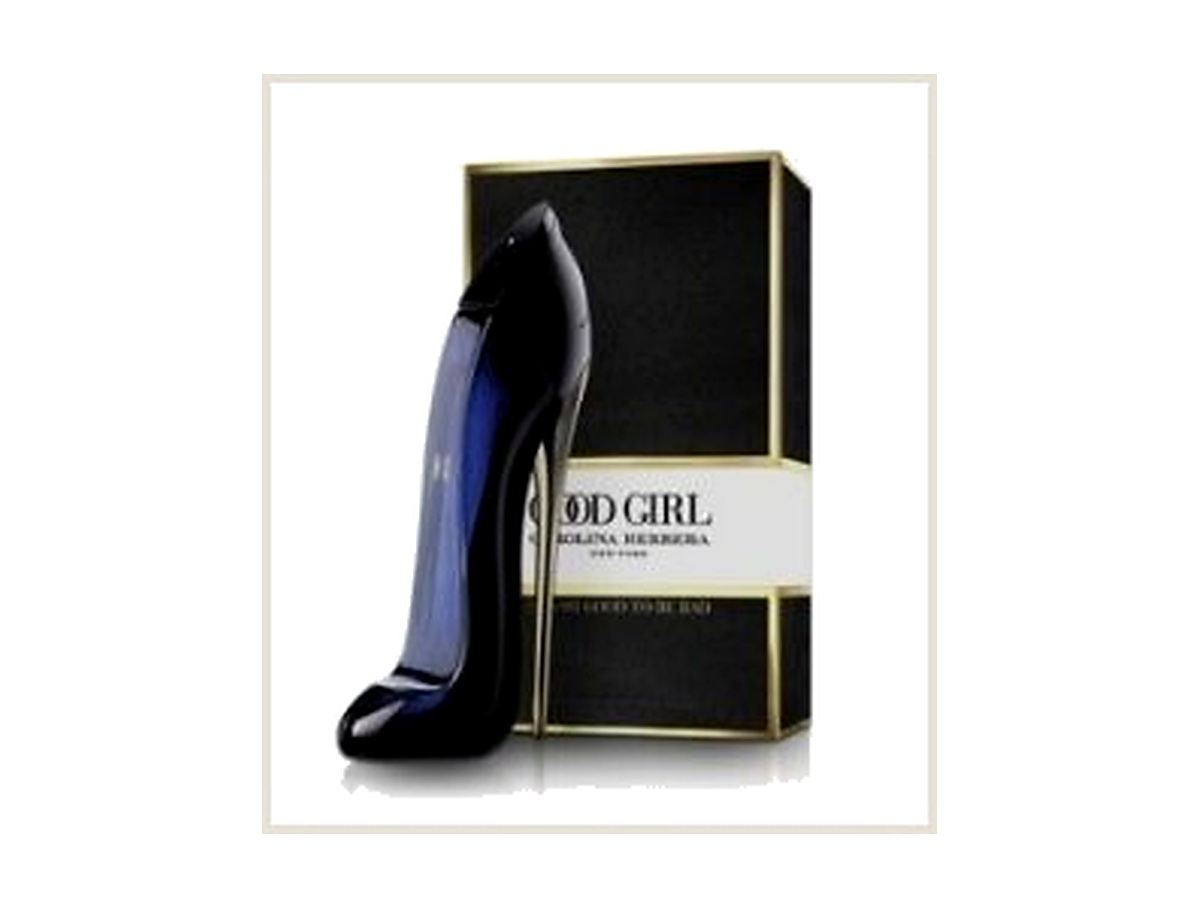
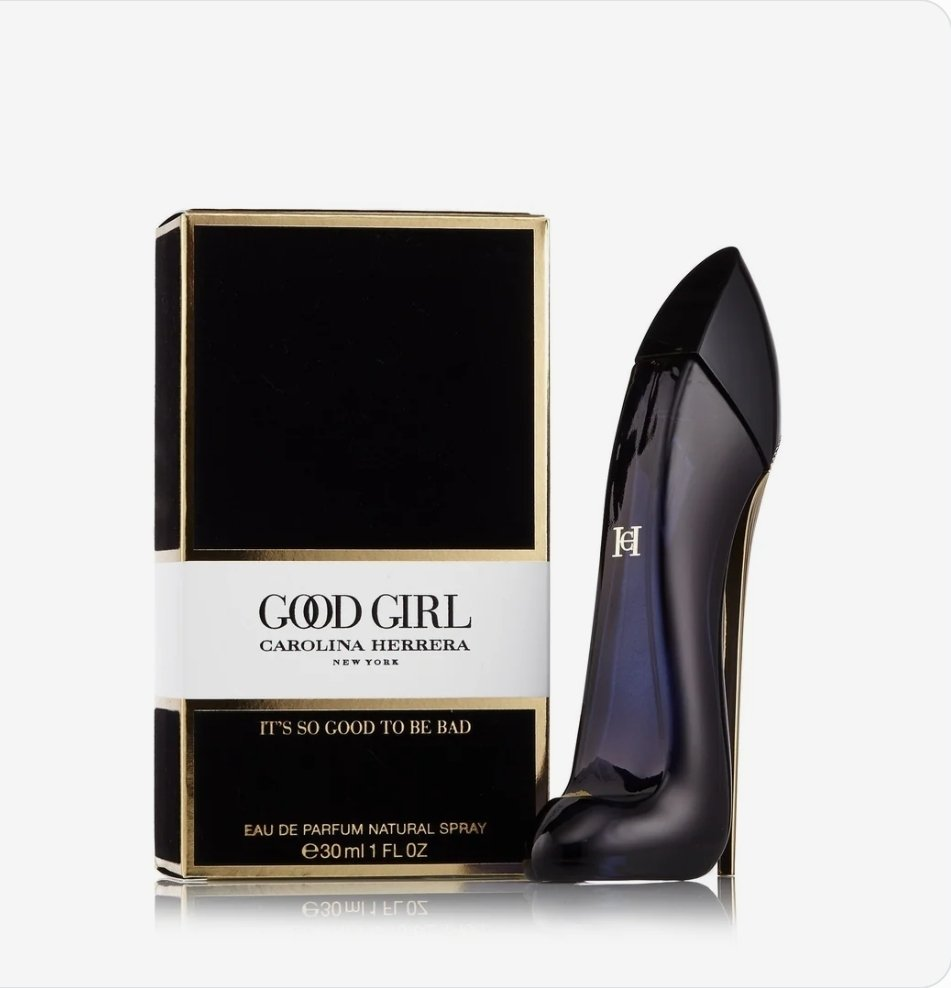
Replace Carolina Herrera Good Girl photos with Boss's new shots

diff --git a/index.html b/index.html
@@ -716,7 +716,7 @@
         { name:'Lattafa His Confession Cologne for Men', niche:'Lattafa · Men · 3.4 oz EDP', direction:'Warm spice, iris and amber woods', description:'A smooth blend of warm spice and powdery iris deepens into amber, vanilla and woods. Rich and composed, with a softly mysterious finish.', category:'amber', images:[{src:'assets/product-lattafa-his-confession.jpg', alt:'Lattafa His Confession black and gold bottle and box — clean packshot'}], price:36, decantPrice:9, originalPrice:44, featured:25 , paymentLink:'https://buy.stripe.com/dRmcN7bn337KbWifd1f7i0Q'},
         { name:'Al Haramain Amber Oud Ruby Perfume for Women', niche:'Al Haramain · Women · 3.4 oz EDP', direction:'Saffron, amberwood and warm musk', description:'Radiant saffron and warm amberwood meet a smooth musky base. Bold and polished, with a rich sweetness that lingers.', category:'amber', images:[{src:'assets/product-al-haramain-amber-oud-ruby.jpg', alt:'Al Haramain Amber Oud Ruby bottle and box — clean packshot'}], price:59, decantPrice:15, originalPrice:72, featured:26 , paymentLink:'https://buy.stripe.com/aFacN776NcIkgcy3ujf7i0P'},
         { name:'Yves Saint Laurent Libre Perfume for Women', niche:'Yves Saint Laurent · Women · 3.0 oz EDP', direction:'Lavender, orange blossom and vanilla', description:'Aromatic lavender contrasts with luminous orange blossom before settling into warm vanilla. Confident, elegant and distinctly modern.', category:'amber', images:[{src:'assets/product-ysl-libre.jpg', alt:'Yves Saint Laurent Libre bottle and box — clean packshot'},{src:'assets/gallery-ysl-libre-1.jpg', alt:'Yves Saint Laurent Libre Perfume for Women — customer photo 1'}], price:125, decantPrice:31, originalPrice:145, featured:27 , paymentLink:'https://buy.stripe.com/7sY4gB9eV4bO0dAgh5f7i0N'},
-        { name:'Carolina Herrera Good Girl Perfume for Women', niche:'Carolina Herrera · Women · 2.7 oz EDP', direction:'White florals, cacao and tonka', description:'Lush white florals meet a darker base of cacao, tonka and warm woods. Glamorous and dramatic, with a sweet evening character.', category:'sweet', images:[{src:'assets/product-carolina-herrera-good-girl.jpg', alt:'Carolina Herrera Good Girl stiletto bottle and box — clean packshot'}], price:105, decantPrice:26, originalPrice:125, featured:28 , paymentLink:'https://buy.stripe.com/7sY28tgHn5fSf8u0i7f7i0O'},
+        { name:'Carolina Herrera Good Girl Perfume for Women', niche:'Carolina Herrera · Women · 2.7 oz EDP', direction:'White florals, cacao and tonka', description:'Lush white florals meet a darker base of cacao, tonka and warm woods. Glamorous and dramatic, with a sweet evening character.', category:'sweet', images:[{src:'assets/product-carolina-herrera-good-girl.jpg', alt:'Carolina Herrera Good Girl stiletto bottle and box on a clean white background'},{src:'assets/product-carolina-herrera-good-girl-2.jpg', alt:'Carolina Herrera Good Girl stiletto bottle, angled view'},{src:'assets/product-carolina-herrera-good-girl-3.jpg', alt:'Carolina Herrera Good Girl stiletto bottle, side view'}], price:105, decantPrice:26, originalPrice:125, featured:28 , paymentLink:'https://buy.stripe.com/7sY28tgHn5fSf8u0i7f7i0O'},
         { name:'Mont Blanc Explorer Cologne for Men (Tester)', niche:'Mont Blanc · Men · 3.3 oz EDP · Tester', direction:'Bergamot, aromatic woods and leather', description:'Tester version: the authentic 3.3 oz fragrance supplied in tester packaging rather than standard retail presentation. Fresh bergamot moves into aromatic woods and a smooth leather-toned base.', category:'woody', images:[{src:'assets/product-montblanc-explorer-tester.jpg', alt:'Mont Blanc Explorer tester bottle and tester box — clean packshot'},{src:'assets/gallery-montblanc-explorer-1.jpg', alt:'Mont Blanc Explorer Cologne for Men (Tester) — customer photo 1'},{src:'assets/gallery-montblanc-explorer-2.jpg', alt:'Mont Blanc Explorer Cologne for Men (Tester) — customer photo 2'},{src:'assets/gallery-montblanc-explorer-3.jpg', alt:'Mont Blanc Explorer Cologne for Men (Tester) — customer photo 3'}], price:49, decantPrice:12, originalPrice:62, featured:29 , paymentLink:'https://buy.stripe.com/4gMcN7ezf5fSf8u0i7f7i1l'},
         { name:'Afnan 9PM Night Out Perfume for Unisex', niche:'Afnan · Unisex · 3.4 oz Extrait de Parfum', direction:'Spiced fruit, warm amber and woods', description:'A concentrated mix of sweet fruit and spice settles into warm amber and dark woods. Rich, long-wearing and designed for an expressive night-out mood.', category:'sweet', images:[{src:'assets/product-afnan-9pm-night-out.jpg', alt:'Afnan 9PM Night Out bottle and black box — clean packshot'},{src:'assets/gallery-afnan-9pm-night-out-1.jpg', alt:'Afnan 9PM Night Out Perfume for Unisex — customer photo 1'},{src:'assets/gallery-afnan-9pm-night-out-2.jpg', alt:'Afnan 9PM Night Out Perfume for Unisex — customer photo 2'}], price:49, decantPrice:12, originalPrice:60, featured:30 , paymentLink:'https://buy.stripe.com/5kQ3cx62JeQsd0mfd1f7i18'},
         { name:'Armaf Odyssey Homme White Edition Cologne for Men', niche:'Armaf · Men · 3.4 oz EDP', direction:'Fresh spice, vanilla and smooth woods', description:'A crisp aromatic opening is softened by warm spice, creamy vanilla and clean woods. Versatile and inviting with a smooth modern finish.', category:'fresh', images:[{src:'assets/product-armaf-odyssey-homme-white.jpg', alt:'Armaf Odyssey Homme White Edition bottle and box on a clean white background'},{src:'assets/product-armaf-odyssey-homme-white-2.jpg', alt:'Armaf Odyssey Homme White Edition bottle in a styled ingredient flat-lay'}], price:29, decantPrice:7, originalPrice:36, featured:31, paymentLink:'https://buy.stripe.com/eVq4gB0IpaAce4q4ynf7i0Y'},
